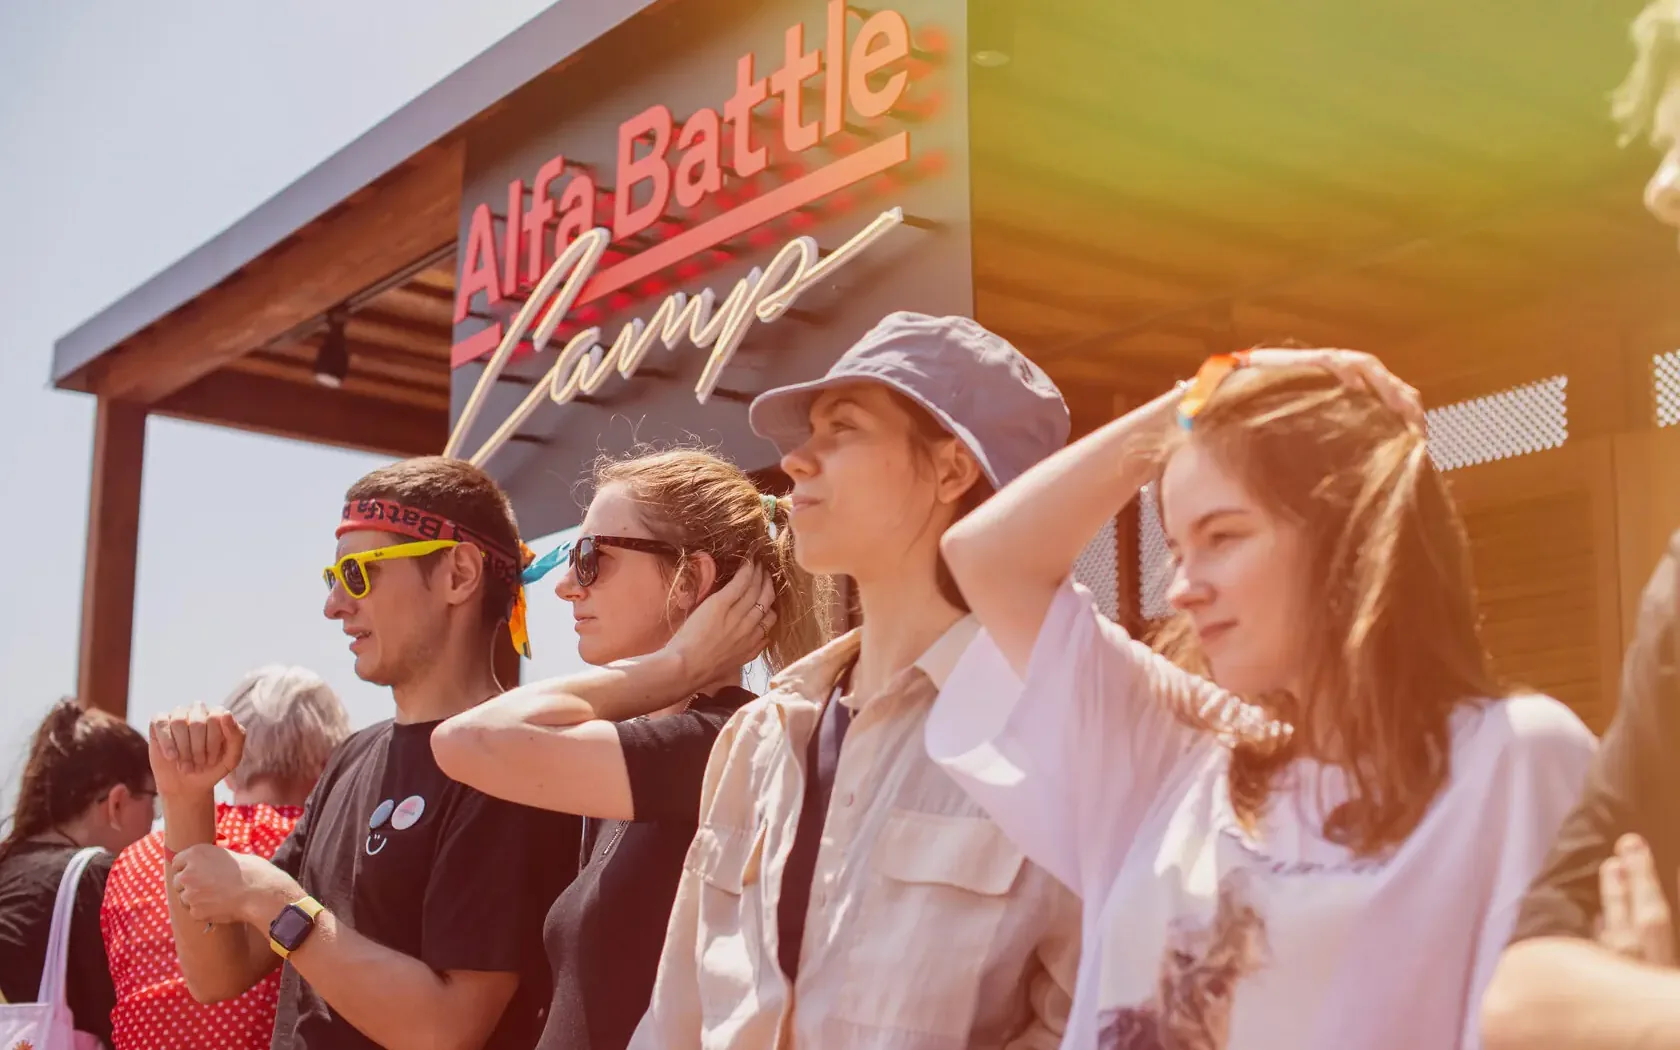
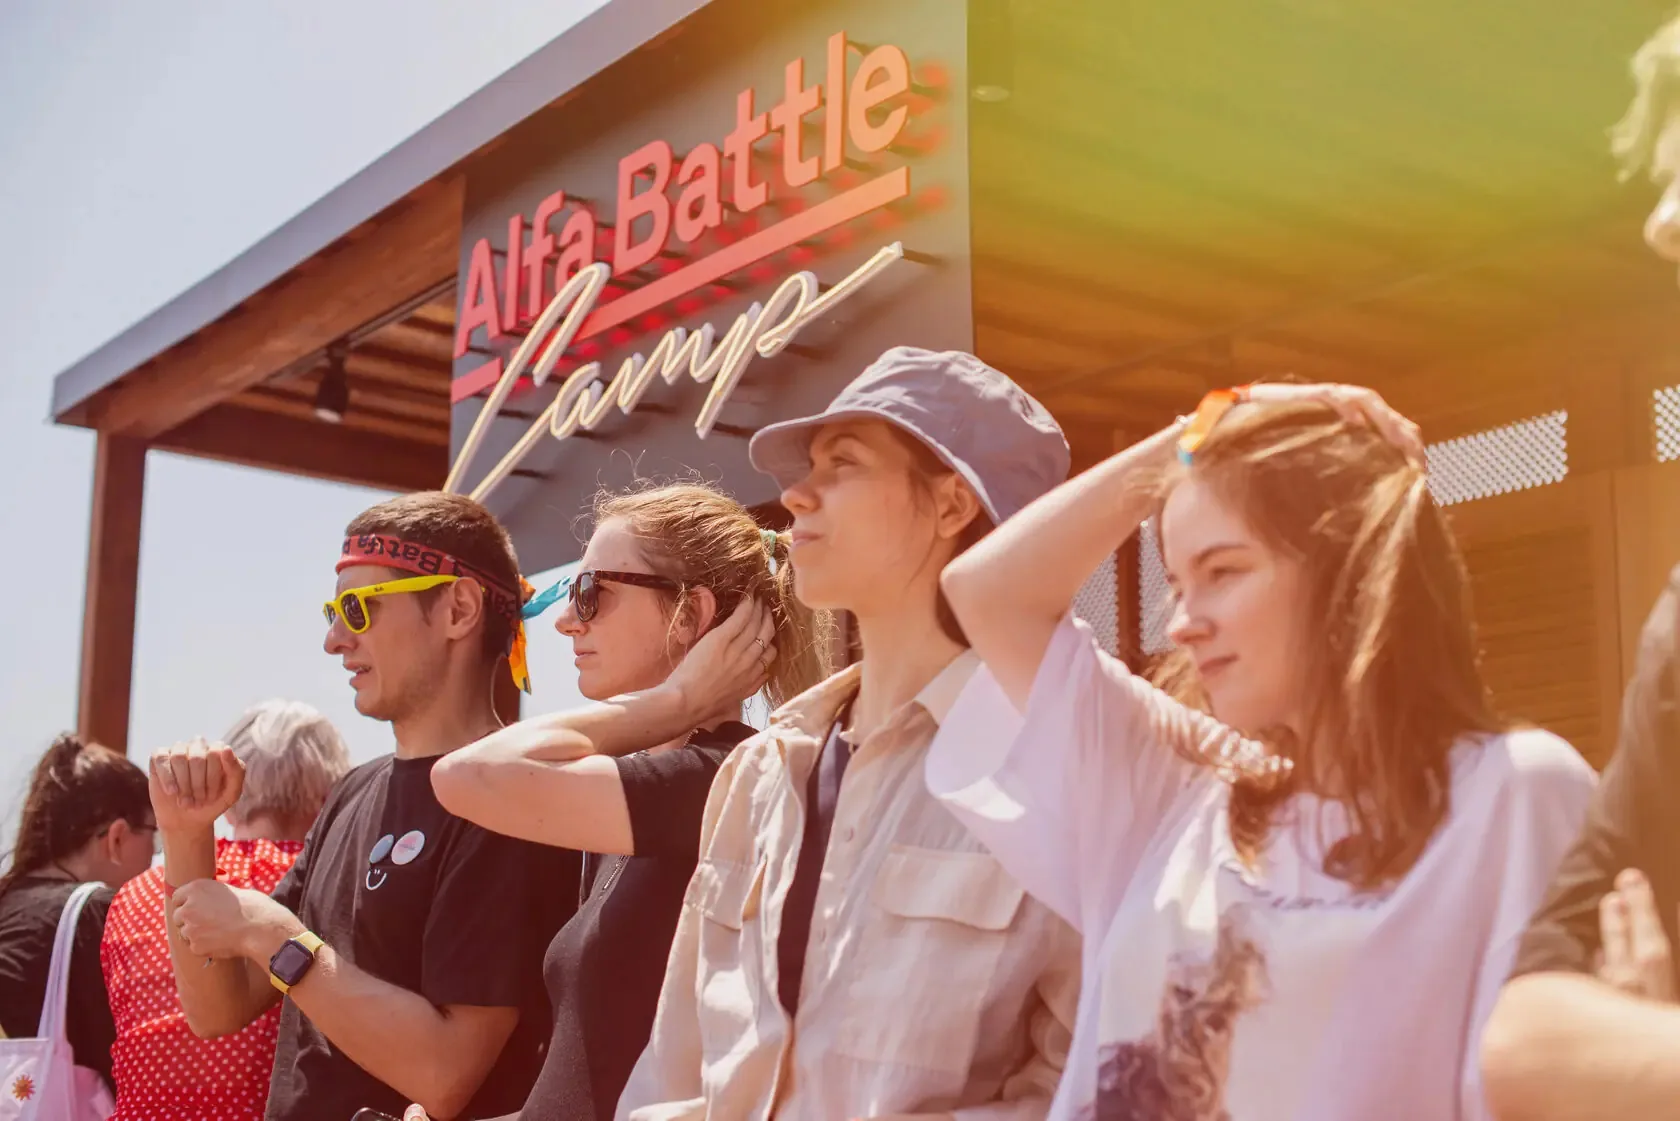
Главная: картинки витрины от Арины (X5 Tech, One Swipe Offer, Alfa Battle Camp)
Claude-Session: https://claude.ai/code/session_01A7zHk5RqiffuHftDMV7tRi

diff --git a/index.html b/index.html
@@ -132,7 +132,7 @@
     <section class="grey wrap dir" data-dir="external">
       <div class="ttl"><h2 class="d"><span class="o">Ритейл —</span><br><span class="solid">вход в IT</span></h2></div>
       <a href="x5stands" class="vlink" data-c="link" data-case="x5stands">X5 Tech на IT-конференциях</a>
-      <a href="x5stands" class="vis" data-c="view" data-label="Смотреть проект" data-magnet=".06" aria-label="X5 Tech на IT-конференциях" data-case="x5stands"><div class="art" style="background:url(media/home/x5stands.webp) center/cover no-repeat"></div><span class="cap label">X5 Tech на IT-конференциях</span></a>
+      <a href="x5stands" class="vis" data-c="view" data-label="Смотреть проект" data-magnet=".06" aria-label="X5 Tech на IT-конференциях" data-case="x5stands"><div class="art" style="background:url(media/home/x5stands.webp?v=2) center/cover no-repeat"></div><span class="cap label">X5 Tech на IT-конференциях</span></a>
       <div class="card"><span class="label">X5 Tech на IT-конференциях</span>Магазин, бар, центр управления: у X5 Tech на каждой конференции новый стенд, а вход в технологии всегда через ритейл.</div>
     </section>
     <section class="grey wrap dir" data-dir="internal">
@@ -144,7 +144,7 @@
     <section class="grey wrap dir" data-dir="external">
       <div class="ttl"><h2 class="d"><span class="o">Свайпнул —</span><br><span class="solid">получил оффер</span></h2></div>
       <a href="osoffer" class="vlink" data-c="link" data-case="osoffer">One Swipe Offer</a>
-      <a href="osoffer" class="vis" data-c="view" data-label="Смотреть проект" data-magnet=".06" aria-label="One Swipe Offer" data-case="osoffer"><div class="art" style="background:url(media/home/osoffer.webp) center/cover no-repeat"></div><span class="cap label">One Swipe Offer</span></a>
+      <a href="osoffer" class="vis" data-c="view" data-label="Смотреть проект" data-magnet=".06" aria-label="One Swipe Offer" data-case="osoffer"><div class="art" style="background:url(media/home/osoffer.webp?v=2) center/cover no-repeat"></div><span class="cap label">One Swipe Offer</span></a>
       <div class="card"><span class="label">One Swipe Offer</span>Собеседования в Tinder и Bumble ко Дню всех влюблённых: свайпнул, поговорил, получил оффер.</div>
     </section>
     <section class="grey wrap dir" data-dir="internal">
@@ -156,7 +156,7 @@
     <section class="grey wrap dir" data-dir="external">
       <div class="ttl"><h2 class="d"><span class="o">Челлендж</span><br><span class="solid">у моря</span></h2></div>
       <a href="abcamp" class="vlink" data-c="link" data-case="abcamp">Alfa Battle Camp</a>
-      <a href="abcamp" class="vis" data-c="view" data-label="Смотреть проект" data-magnet=".06" aria-label="Alfa Battle Camp" data-case="abcamp"><div class="art" style="background:url(media/home/abcamp.webp) center/cover no-repeat"></div><span class="cap label">Alfa Battle Camp</span></a>
+      <a href="abcamp" class="vis" data-c="view" data-label="Смотреть проект" data-magnet=".06" aria-label="Alfa Battle Camp" data-case="abcamp"><div class="art" style="background:url(media/home/abcamp.webp?v=2) center/cover no-repeat"></div><span class="cap label">Alfa Battle Camp</span></a>
       <div class="card"><span class="label">Alfa Battle Camp</span>Пять дней в Сочи для UX-исследователей и дизайнеров: онлайн-челлендж, защита решений и море.</div>
     </section>
   </div>

diff --git a/NOTES.md b/NOTES.md
@@ -21,7 +21,7 @@
 2. LIVE COMMUNICATIONS — бегущая строка на JS (без швов). Клик → шоурил (свой mp4 в панели `#reelPanel`). На тач-экранах у центра экрана слово LIVE заливается превью.
 3. «Волны» — 4 контура из PDF визитки (`CARD`), в покое поочерёдно дышат, по ховеру/у центра экрана (тач) собираются в идеальные круги; на тач после полной метаморфозы в центре появляется бейдж «О нас».
 4. «Внешним или внутренним» + кольцо «Все проекты» (магнит).
-5. Витрина `#directions` (11.11, задание Арины; серые экраны `.dir`, ритм статика → видео → статика → видео → статика): Ритейл — вход в IT (`x5stands`), Город сближает (`alfacontactday`, видео), Свайпнул — получил оффер (`osoffer`), Технологии на витрине (`x5datafest`, видео), Челлендж у моря (`abcamp`). Видео прописано прямо в index.html: `<video class="cv">` внутри `.art`, постер — фон `.art`; при «меньше движения» JS убирает видео. Картинки `media/home/x5stands|osoffer|abcamp.webp` пока нарезаны из обложек кейсов, ждём финальные JPG Арины с Диска (Drive API их в контейнер не отдаёт — нужен файл в чат).
+5. Витрина `#directions` (11.11, задание Арины; серые экраны `.dir`, ритм статика → видео → статика → видео → статика): Ритейл — вход в IT (`x5stands`), Город сближает (`alfacontactday`, видео), Свайпнул — получил оффер (`osoffer`), Технологии на витрине (`x5datafest`, видео), Челлендж у моря (`abcamp`). Видео прописано прямо в index.html: `<video class="cv">` внутри `.art`, постер — фон `.art`; при «меньше движения» JS убирает видео. Картинки `media/home/x5stands|osoffer|abcamp.webp` — файлы Арины (11.11).
    «Нам доверяют» и «Награды» с главной убраны (11.11), остались только на «О нас».
 6. Все кейсы — список с фильтрами (счётчики считаются из данных); на тач превью появляется у строки, проходящей центр экрана. 11.11 скрыты (`hide`) hackathon, tmn, techrace, shclub, es → 17 проектов.
 7. Подкаст (`section.own.pod#pod`, 11.11): заголовок «Подкаст median.agency» `--h3` капсом слева, два абзаца справа, ниже обложка 16:9 `media/home/podcast.webp` во всю ширину сетки → плейлист YouTube в новой вкладке (Арина может заменить на страницу кейса `podcast`). Секция держит класс `own` — от него «шторка» футера.
